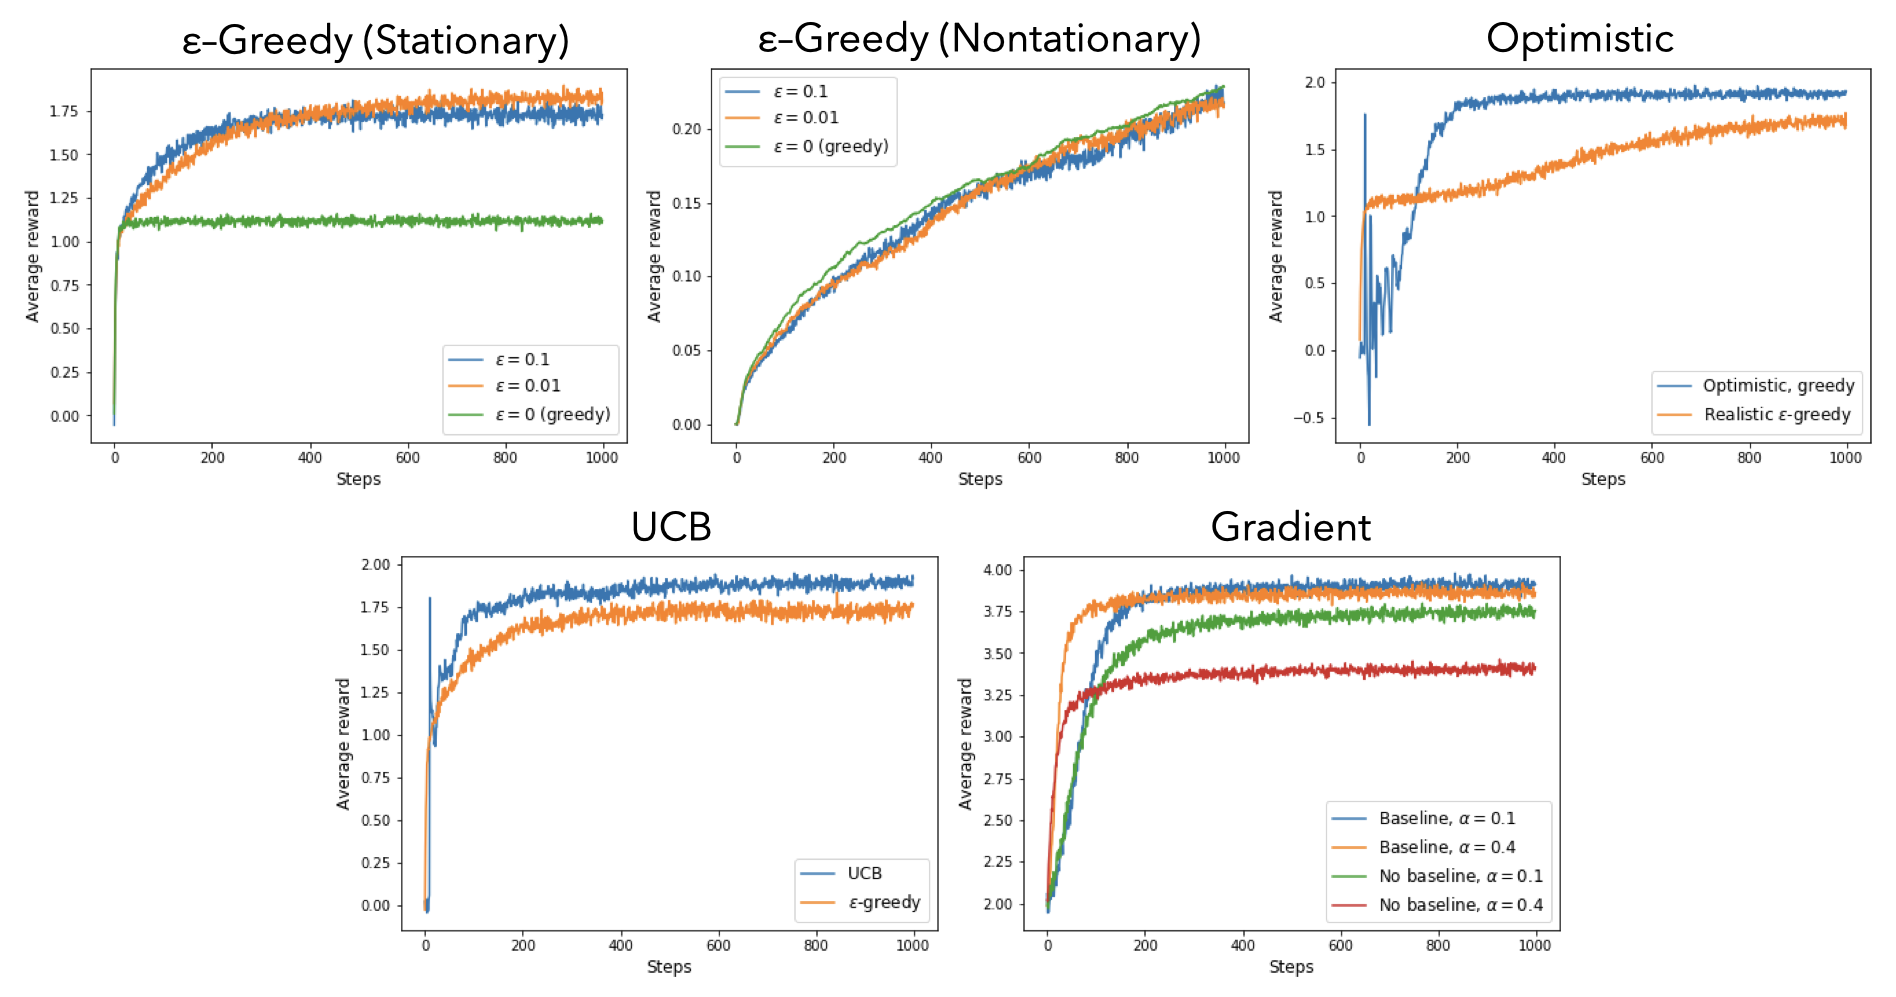
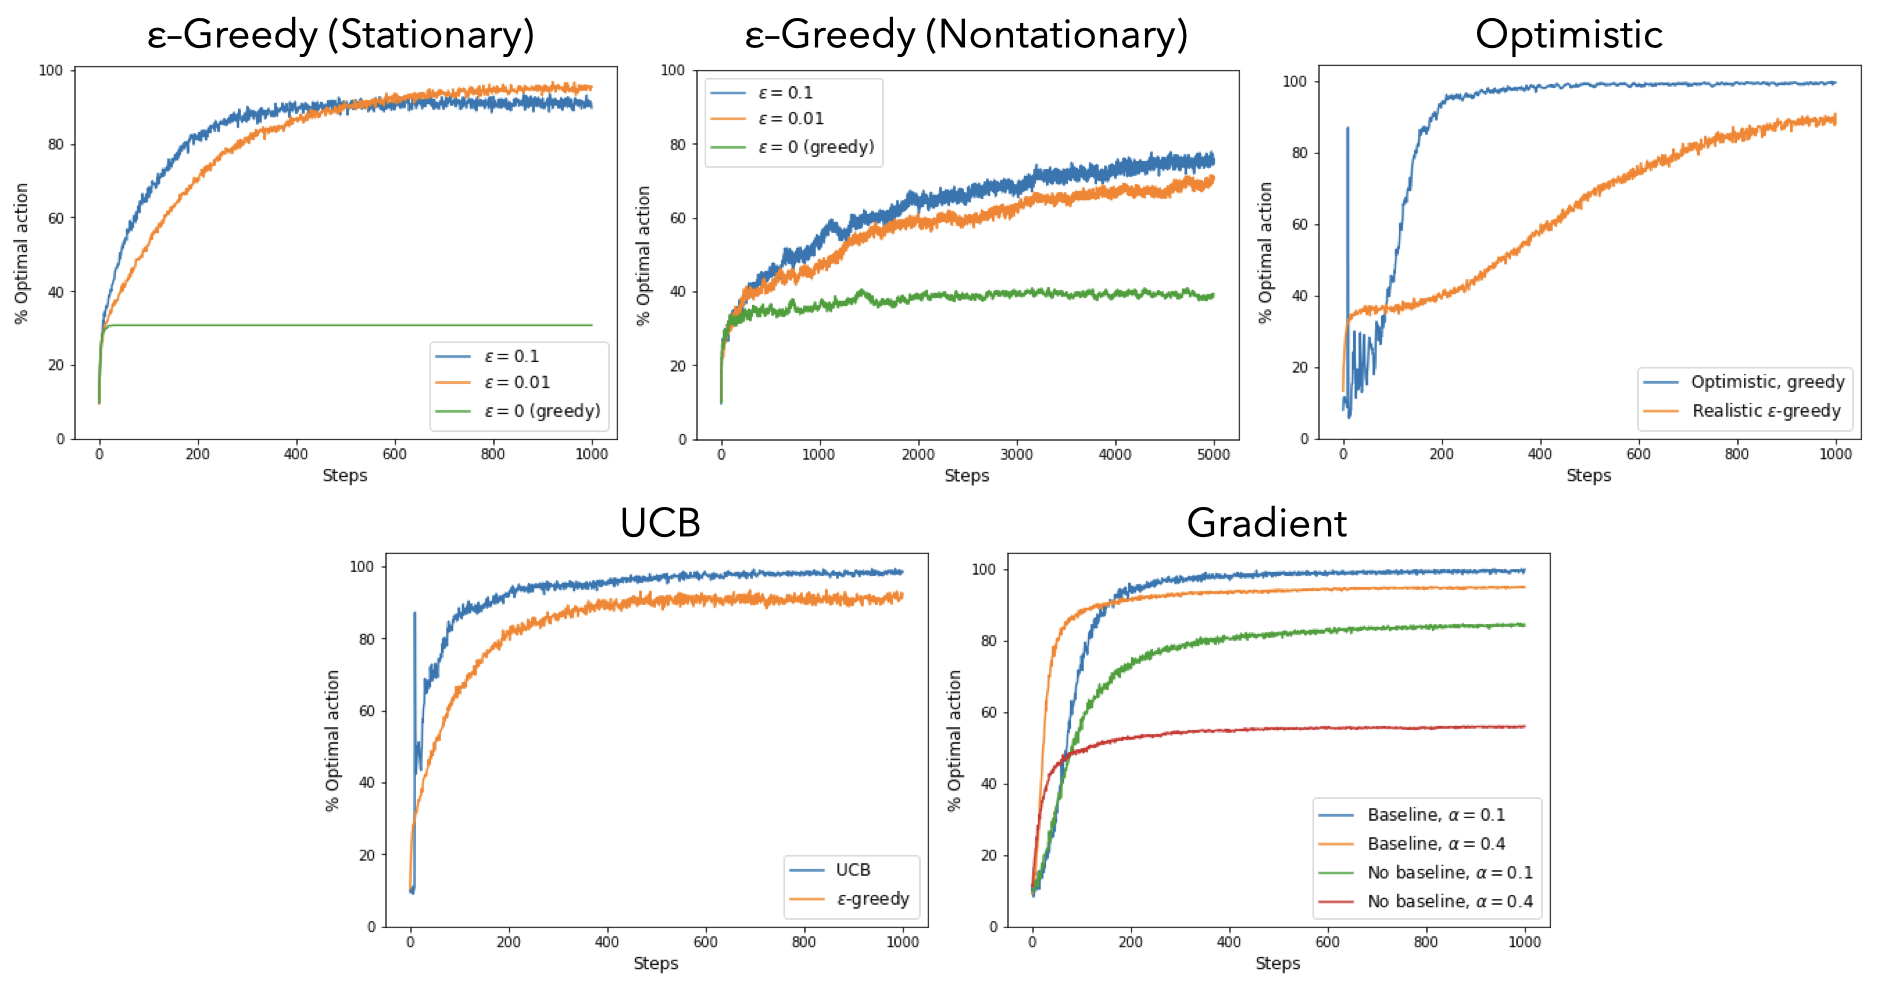
Plot % optimal action instead of average reward

diff --git a/README.md b/README.md
@@ -2,8 +2,9 @@
 Code for the stationary and nonstationary multi-armed bandits problem.
 
 <p align="center">
-  <img width="900" height="500" src="images/plots.png?">
+  <img width="900" height="450" src="images/plots.png?">
 </p>
+
 
 
 
